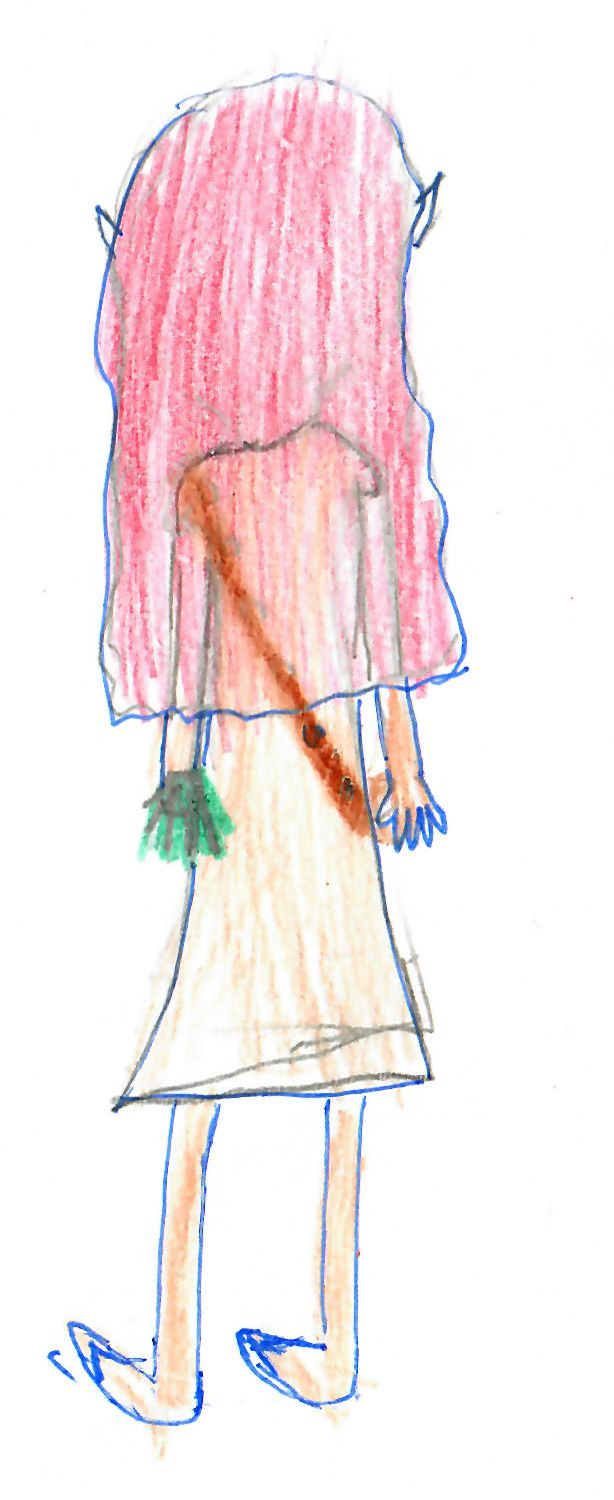
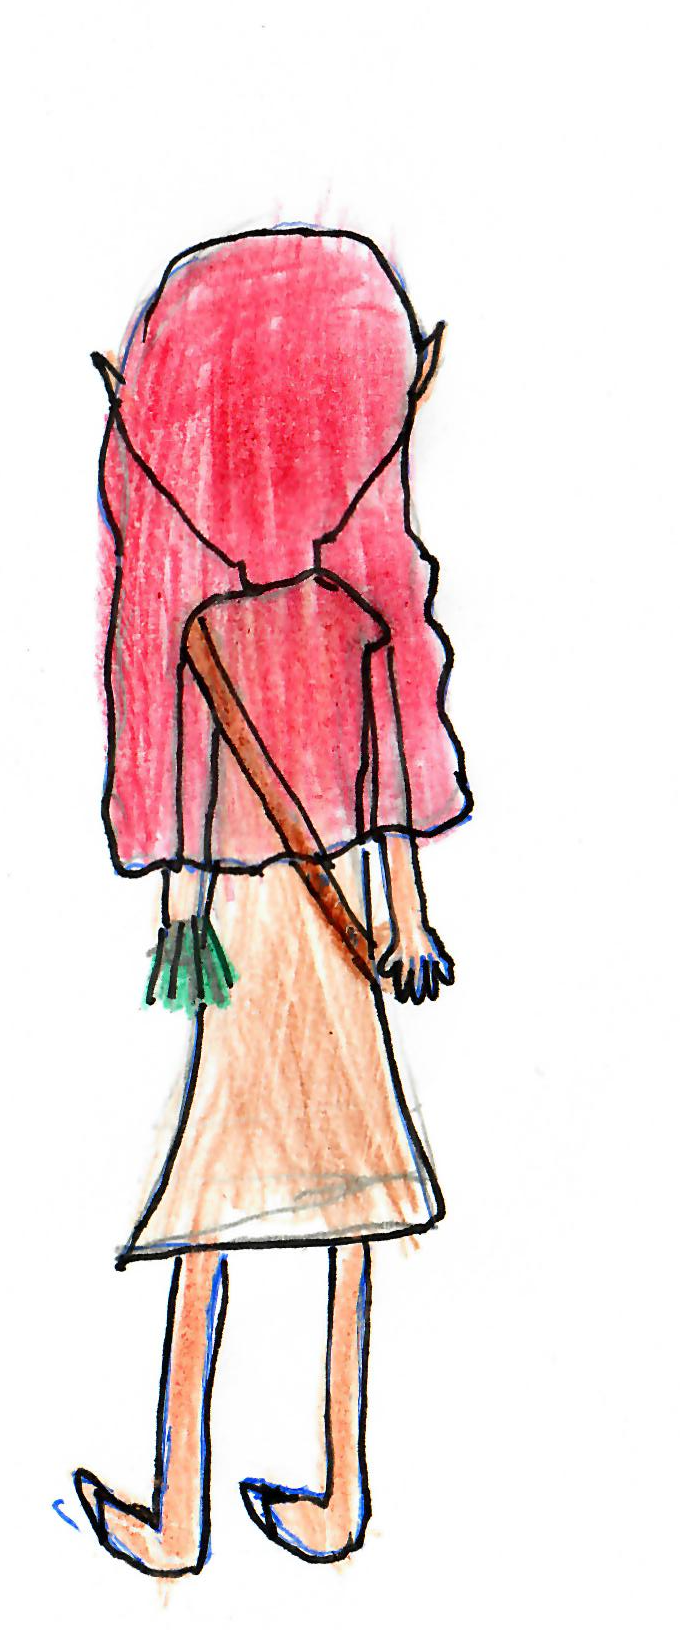
Update Lilly to v2 art, wire up Ciba and Mimi as sidekicks, and standardize asset layout
Redrew Lilly with her new elf-eared design; swapped the placeholder
pet/fox sidekick for the already-extracted Ciba and Mimi sprites.
Also standardized character sprite naming to <id>.png / <id>-front.png /
<id>-back.png (was inconsistently ciba-left.png / mimi-front.png), and
moved assets/original/ under public/assets/original/ so all game assets
live under one tree.

diff --git a/docs/ART-GUIDE.md b/docs/ART-GUIDE.md
@@ -12,7 +12,7 @@
 
 **Scanning**
 - A scanner at 150–300 dpi is ideal. A phone photo also works: use daylight, no shadow, shoot from straight above, and crop to the paper.
-- Put the raw scans in `scans/`. It's a good idea to keep the originals.
+- Put the raw scans in `scans/`, cropped to one character each. It's a good idea to also keep the full, unedited photo (even if it has several characters on one page) in `public/assets/original/`.
 
 **Turning a scan into a sprite**
 ```bash
@@ -20,6 +20,8 @@ pip install pillow        # once
 python3 tools/cutout.py scans/fox.jpg public/assets/characters/fox.png
 ```
 If grey paper or shadows survive, try `--white 200`. If parts of the drawing vanish, try `--white 235`.
+
+Name the files after the character's `id`: `<id>.png` for the side view, `<id>-front.png` / `<id>-back.png` for the optional extra views (for example `fox.png`, `fox-front.png`, `fox-back.png`). The game doesn't care what the files are called - it just reads whatever path you put in `characters.json` - but keeping this pattern makes the asset folder easy to scan.
 
 Then add it to `public/data/characters.json`, in the `heroes` list (playable characters) or `pets` list:
 ```json
